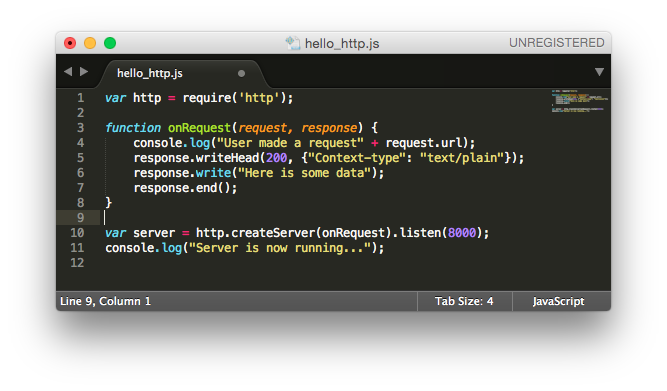
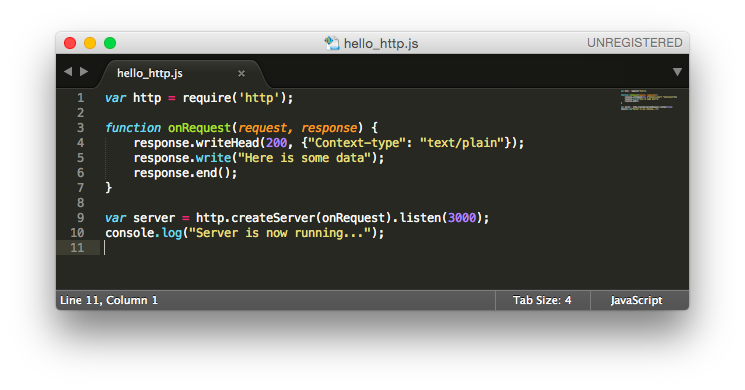
Update page with the remaining page contents as well as adding new examples.

diff --git a/index.html b/index.html
@@ -19,14 +19,14 @@
 		<div class="container">
 			<h4>Why Node.JS? </h4>
 			<p>Okay, great, so Node.JS can run JavaScript on the server side but why should I care?</p>
-			<p>Like PHP, Node.JS is also an open source initive. It is using the latest Google's JavaScript engine <a href="https://developers.google.com/v8/">V8</a>. This makes Node.JS super fast.</p>
+			<p>Like PHP, Node.JS is also an open source initive. It is using the latest Google's JavaScript engine, <a href="https://developers.google.com/v8/">V8</a>. This makes Node.JS super fast.</p>
 			<p>In addition,as JavaScript becomes one of the most popular languages on the web, there are large communities supporting and developing new functionalities for Node.JS framework.</p>
 			<p>Still not convince? Node.JS has built-in libraries that handle HTTP, SSL, filesystem, compression, JSON, etc. Those advantages make it a great tool to create APIs, running real-time applications, etc.</p>
 		</div>
 		<div class="container">
 			<h4>Where is Node.JS used?</h4>
-			Alright, so, Node.JS sounds great but where is it used?</b>
-			Node.JS is one of the most popular and fastest growing JavaScript framework in the world. It is being used by a lot of small as well as large Fortunes 500 companies including:</b>
+			<p>Alright, so, Node.JS sounds great but where is it used?</p>
+			<p>Node.JS is one of the most popular and fastest growing JavaScript framework in the world. It is being used by a lot of small as well as large Fortunes 500 companies including:</p>
 		</div>
 		<div class="container">
 			<div class="row">
@@ -82,23 +82,61 @@
 				<img src="img/server1.png" class="image-responsive" alt=""> </br>
 			Run the new script using Node.JS:</br>
 				<img src="img/server2.png" class="image-responsive" alt=""> </br>
-			Now, in your web browser, make a request to localhost at port 8000:</br>						
+			Now, in your web browser, make a request to localhost at port 3000:</br>						
 				<img src="img/server3.png" class="image-responsive" alt=""> </br>
-			Check back on the running script:</br>
-				<img src="img/server4.png" class="image-responsive" alt=""> </br>
 			With a just a few lines of code, Node.JS is able to act as a server to get request and send back response to the user. This demonstrates the power as well as simplicity of Node.JS.<br/>
 		</div>
 		<div class="container">
 			<h4>Express</h4>
-		</div>
-		<div class="container">
-			<h4>Different libraries</h4>
+			<p>So, I get it, Node.JS is cool and powerful but what else can it do?</p>
+			<p>As mentioned earlier, Node.JS has a lot of supports and developments from communities. Express.JS is an example of what coming out of that effort.</p>
+			<p>Express.JS is a web application framework that is built based on Node.JS. Express.JS simplies development and makes it easier to build web services and applications. It is one of the most popular framework for Node.JS.</p>
+			<p>Sounds good! Now, how do I start on Express.JS and is there any example of using Express.JS?</p>
+			There are many ways to install Express.JS and one of them is install it temporary:</br>
+				<img src="img/express1.png" class="image-responsive" alt=""> </br>
+			Once, you have it installed, type in the following example code to test it out:</br>
+				<img src="img/express2.png" class="image-responsive" alt=""> </br>
+			Now, in your web browser, make a request to localhost at port 3000:</br>						
+				<img src="img/express3.png" class="image-responsive" alt=""> </br>
+
+			<p>Voila! You have just discovered another way to running the server using Express.JS.</p>
+			<p>Where I can find more information about Express.JS? At <a href="http://expressjs.com">ExpressJS.com</a>, of course.</p>
 		</div>
 		<div class="container">
 			<h4>JSON</h4>
+			<p>Alright, everything that I have seen so far is pretty neat. But what about JSON, the de facto standard for transferring data, how does Node.JS handle it?</p>	
+			<p>Aha! As Node.JS is JavaScript based, JSON couldn't have been easier using Node.JS. Here is an example:</p>
+			<p>Let's say that you have this JSON file:</p>
+				<img src="img/json1.png" class="image-responsive" alt=""> </br>
+			<p>To use it, you need to add the file directory in your program. Here's the previous Express.JS example with the JSON file directory added along with the updated message display:</p>
+				<img src="img/json2.png" class="image-responsive" alt=""> </br>
+			<p>And here's the result:</p>
+				<img src="img/json3.png" class="image-responsive" alt=""> </br>
+			<p>As you can see, Node.JS is made for JSON.</p>
+		</div>
+		<div class="container">
+			<h4>Additional libraries and packages</h4>
+			<p>As the late Steve Jobs had always said 'One more thing -' during his presentation, what other (one more) thing that Node.JS has to offer?</p>
+			<p>Because Node.JS has great communities to oversee its expansion as well as libraries and packages developments, there are many great add-ons to Node.JS. Some of the most popular packages are:</p>	
+			<ul>
+				<li><a href="http://gruntjs.com">GruntJS</a> - a JavaScript Task Runner that automates repetitive tasks.</li>
+				<li><a href="http://socket.io">socket.io</a> - a real time framework server.</li>
+				<li><a href="https://github.com/caolan/async">async</a> - a simple yet powerful way to work with asynchronous JavaScript.</li>
+				<li><a href="https://github.com/felixge/node-mysql/">MySQL</a> - Node.JS driver for MySQL database.</li>
+				<li><a href="http://docs.mongodb.org/ecosystem/drivers/node-js/">MongoDB</a> - Node.JS driver for MongoDB database.</li>
+				<li>And many more...</li>
+			</ul>
 		</div>
 		<div class="container">
 			<h4>More information</h4>
+			<p>Alright! So, I think I have enough information to start with Node.JS but where do I go if I have additional questions?</p>
+			<p><a href="https://nodejs.org/">nodejs.org</a> would be the autoritative source for all of the documentation and references related to Node.JS. Other than that, your favorite search engine would be able to point you to the right direction with any questions that you might have.</p>
+		</div>
+		<div class="container">
+			<h4>Acknowledgement</h4>
+			<p>Microsoft, Yahoo, Dow Jones, ebay, The New York Times and LinkedIn are registered trademarks of Microsoft Corporation, Yahoo Corporation, News Corp, eBay Corporation, The New York Times Company and LinkedIn Corporation, respectively.</p>
+			<p>Some of the sample code to set up the web server using Express.JS was copied from ExpressJS.com Getting started tutorial.
+			</p>
 		</div>
 	</body>
 </html>
